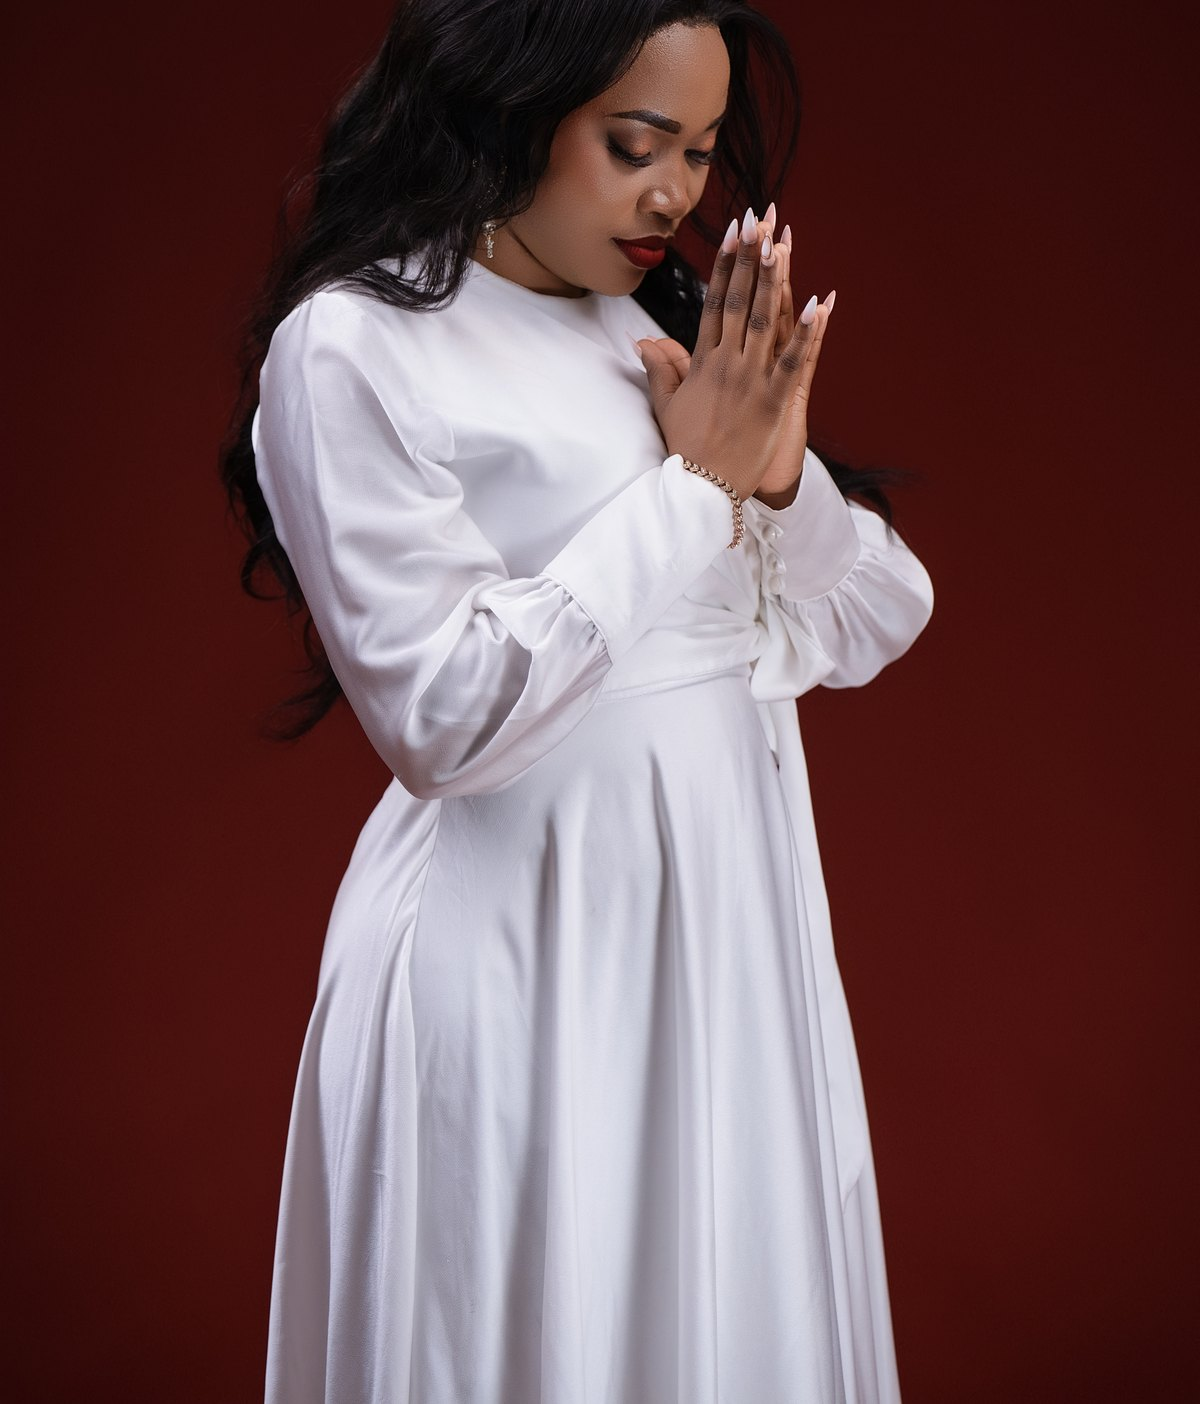
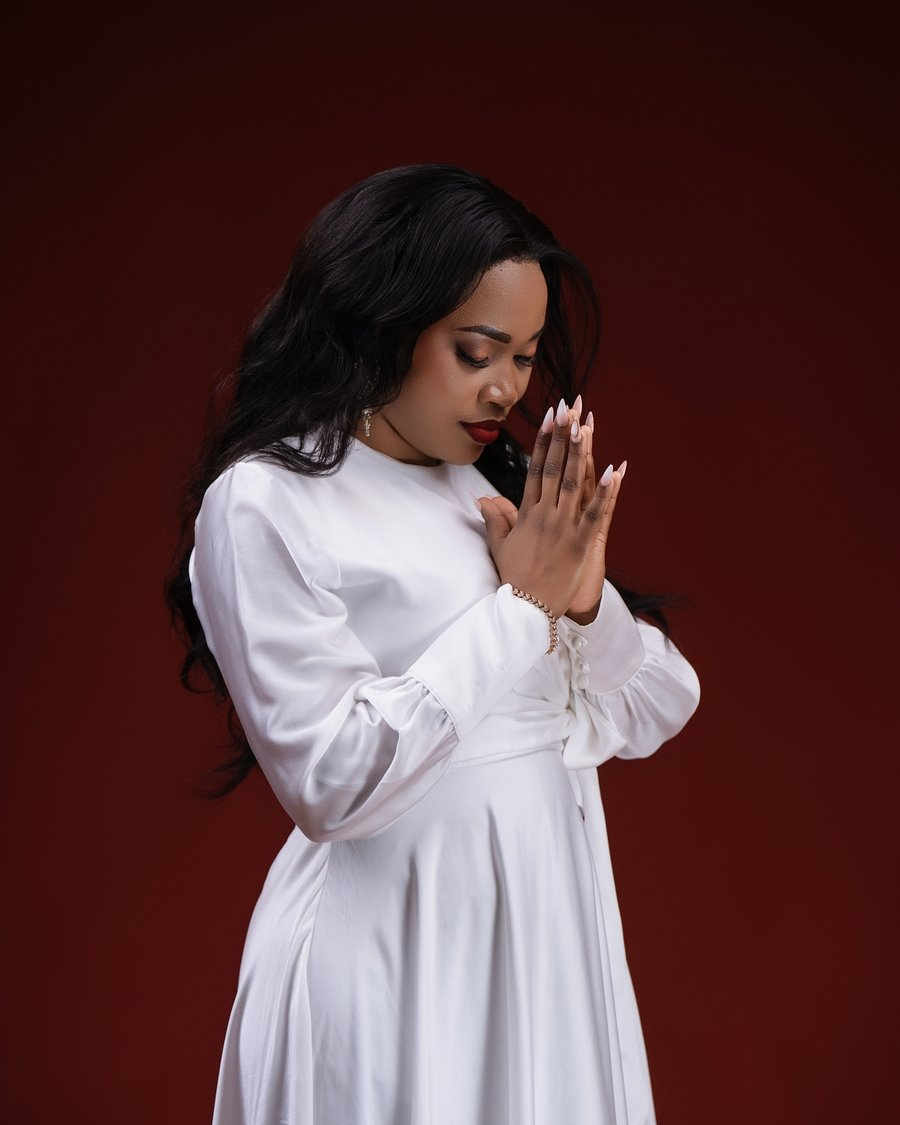
Photo wiring across all pages + ministry headroom fix

diff --git a/ministry.html b/ministry.html
@@ -59,7 +59,7 @@
 <section class="section" style="background:var(--cream);">
   <div class="container">
     <div class="grid-2" style="align-items:center;gap:60px;">
-      <div class="fade-up"><div class="bio-img" style="background:url('assets/web/purity-about.jpg') center top/cover;font-size:0;aspect-ratio:4/5;height:auto;"></div></div>
+      <div class="fade-up"><div class="bio-img" style="background:url('assets/web/purity-about.jpg') center/cover;font-size:0;aspect-ratio:4/5;height:auto;"></div></div>
       <div class="fade-up">
         <div class="eyebrow">About Purity</div>
         <h2>A Voice Raised for<br/>Such a Time as This</h2>